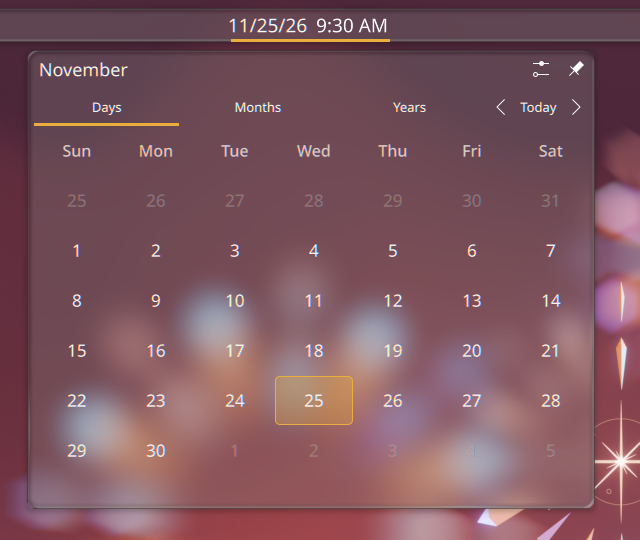
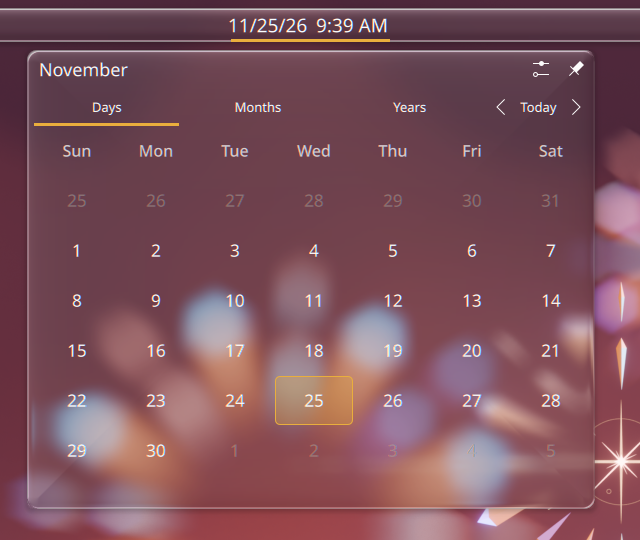
KDE: match the Three.js prototype's look
Use the prototype's dome height profile, additive rim lighting and default
values instead of the GNOME extension's edge band and inner AO, and soften
Breeze's dark 1px outline in the Plasma Style. Retake the screenshots.

diff --git a/kde-liquid-glass/src/liquidglass.cpp b/kde-liquid-glass/src/liquidglass.cpp
@@ -98,26 +98,24 @@ LiquidGlassEffect::LiquidGlassEffect()
     m_glassPass.cornerRadiusLocation = m_glassPass.shader->uniformLocation("corner_radius");
     m_glassPass.tintLocation = m_glassPass.shader->uniformLocation("tint");
 
-    // Defaults are the GNOME extension's gschema defaults.
+    // Defaults are the Three.js prototype's (prototypes/sandbox-threejs/src/main.js).
     m_params = {
-        {"MaxZ", "max_z", 25.0},
+        {"MaxZ", "max_z", 16.0},
         {"DisplacementScale", "displacement_scale", 78.5},
-        {"EdgeSmoothing", "edge_smoothing", 2.0},
-        {"ProfileShapeN", "profile_shape_n", 7.0},
+        {"EdgeSmoothing", "edge_smoothing", 2.4},
+        {"ProfileShapeN", "profile_shape_n", 3.4},
         {"IOR", "ior", 2.40},
         {"ChromaStrength", "chroma_strength", 0.006},
-        {"TintStrength", "tint_strength", 0.12},
+        {"TintStrength", "tint_strength", 0.04},
         {"SpecularIntensity", "specular_intensity", 0.0},
         {"Shininess", "shininess", 42.0},
-        {"RimWidth", "rim_width", 5.0},
-        {"RimIntensity", "rim_intensity", 0.6},
-        {"RimDirectionalPower", "rim_directional_power", 2.7},
-        {"RimPower", "rim_power", 6.0},
-        {"RimLightColorIntensity", "rim_light_color_intensity", 1.4},
+        {"RimWidth", "rim_width", 2.5},
+        {"RimIntensity", "rim_intensity", 1.36},
+        {"RimDirectionalPower", "rim_directional_power", 1.7},
+        {"RimPower", "rim_power", 8.0},
+        {"RimLightColorIntensity", "rim_light_color_intensity", 2.5},
         {"SheenIntensity", "sheen_intensity", 0.32},
-        {"AOIntensity", "ao_intensity", 0.25},
-        {"AORadius", "ao_radius", 7.5},
-        {"LightAngle", "light_angle_deg", 50.0},
+        {"LightAngle", "light_angle_deg", 120.0},
         {"Brightness", "brightness", 1.0},
         {"Contrast", "contrast", 1.0},
         {"Saturation", "saturation", 1.0},
@@ -223,7 +221,7 @@ void LiquidGlassEffect::reconfigure(ReconfigureFlags)
 {
     const KConfigGroup conf = effects->config()->group(QStringLiteral("Effect-liquidglass"));
 
-    const int blurStrength = std::clamp(conf.readEntry("BlurStrength", 5), 1, int(blurStrengthValues.size())) - 1;
+    const int blurStrength = std::clamp(conf.readEntry("BlurStrength", 3), 1, int(blurStrengthValues.size())) - 1;
     m_iterationCount = blurStrengthValues[blurStrength].iteration;
     m_offset = blurStrengthValues[blurStrength].offset;
     m_expandSize = blurOffsets[m_iterationCount - 1].expandSize;

diff --git a/kde-liquid-glass/README.md b/kde-liquid-glass/README.md
@@ -37,9 +37,10 @@ wallpaper, and this effect and Plasma Style at their default settings.
 It is a fork of KWin's built-in **Blur** effect. Every surface that asks KWin for blur
 already gets the glass, with no per-app setup: panels, popups, notifications, OSDs,
 KRunner, and translucent apps and decorations. KWin's background capture and dual-Kawase
-blur are kept as they are. The final composite pass is the GNOME shader
-(`src/shaders/glass.frag`), ported to KWin: superellipse height profile, Snell
-refraction, chromatic aberration, rim, specular and sheen lighting, and inner AO.
+blur are kept as they are. The final composite pass (`src/shaders/glass.frag`) is the
+Three.js prototype's shader, ported to KWin: one superellipse dome over the whole shape,
+Snell refraction, chromatic aberration, and additive rim, specular and sheen lighting.
+Its defaults match the prototype too, so the edges catch light instead of darkening.
 
 It is a replacement for Blur, so turn Blur off when you turn this on.
 
@@ -69,8 +70,8 @@ qdbus6 org.kde.KWin /KWin reconfigure
 You can also toggle it in *System Settings → Desktop Effects → Liquid Glass*.
 
 Then install the **Liquid Glass Plasma Style**. Breeze's panel and popup backgrounds are
-about 85% opaque and hide most of the glass. This style is Breeze with those backgrounds
-at 18%, and it turns off the background-contrast pass that would darken the glass.
+about 85% opaque and have a darker 1px outline, which hide most of the glass. This style
+is Breeze with the backgrounds and the outline at 18%, and it turns off the background-contrast pass that would darken the glass.
 Everything else falls back to Breeze.
 
 ```bash
@@ -91,7 +92,7 @@ To uninstall, turn Blur back on, switch the Plasma Style back to Breeze, and del
 ## Settings
 
 There is no settings UI yet. All settings go in `kwinrc` under `[Effect-liquidglass]`. The
-defaults match the GNOME extension's defaults. For example:
+defaults match the Three.js prototype's defaults. For example:
 
 ```bash
 kwriteconfig6 --file kwinrc --group Effect-liquidglass --key CornerRadius 20
@@ -100,21 +101,20 @@ qdbus6 org.kde.KWin /KWin reconfigure
 
 | Key | Default | |
 |---|---|---|
-| BlurStrength | 5 | 1–15, same scale as KWin Blur |
+| BlurStrength | 3 | 1–15, same scale as KWin Blur |
 | CornerRadius | 12 | px; a window's own rounded corners win if it has them |
 | TintColor | #ffffff | |
-| TintStrength | 0.12 | |
-| MaxZ | 25 | glass thickness |
+| TintStrength | 0.04 | |
+| MaxZ | 16 | glass thickness |
 | DisplacementScale | 78.5 | refraction strength |
 | IOR | 2.4 | |
-| ProfileShapeN | 7 | edge curvature (superellipse n) |
-| EdgeSmoothing | 2 | |
+| ProfileShapeN | 3.4 | dome curvature (superellipse n) |
+| EdgeSmoothing | 2.4 | |
 | ChromaStrength | 0.006 | chromatic aberration |
-| RimWidth / RimIntensity / RimPower / RimDirectionalPower / RimLightColorIntensity | 5 / 0.6 / 6 / 2.7 / 1.4 | |
+| RimWidth / RimIntensity / RimPower / RimDirectionalPower / RimLightColorIntensity | 2.5 / 1.36 / 8 / 1.7 / 2.5 | |
 | SpecularIntensity / Shininess | 0 / 42 | |
 | SheenIntensity | 0.32 | |
-| AOIntensity / AORadius | 0.25 / 7.5 | |
-| LightAngle | 50 | degrees |
+| LightAngle | 120 | degrees, counter-clockwise from the right (120 = upper left) |
 | Brightness / Contrast / Saturation | 1 / 1 / 1 | |
 
 ## Not ported (yet)
